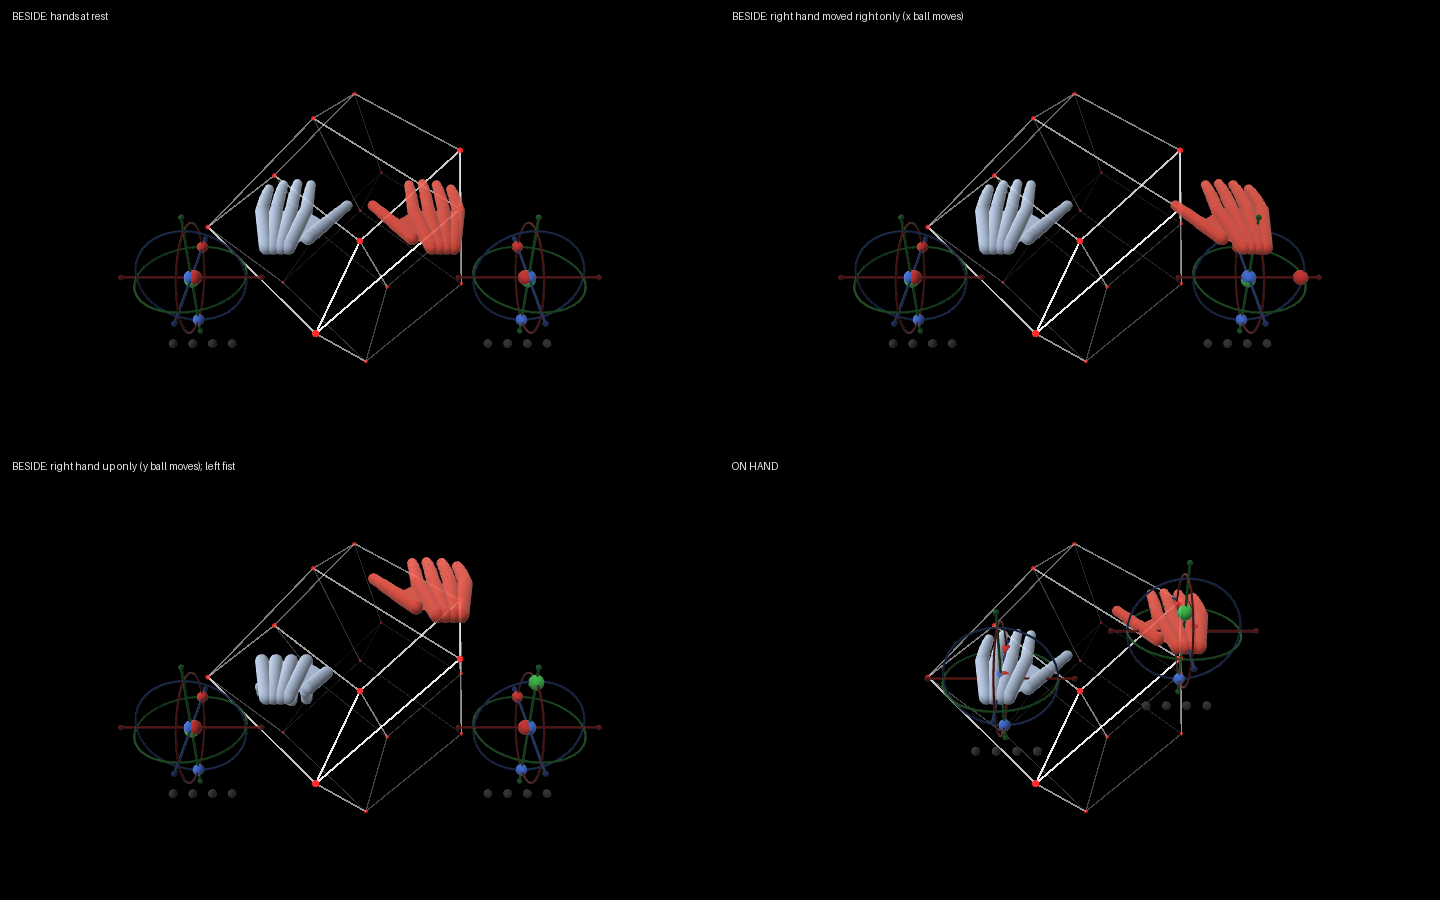
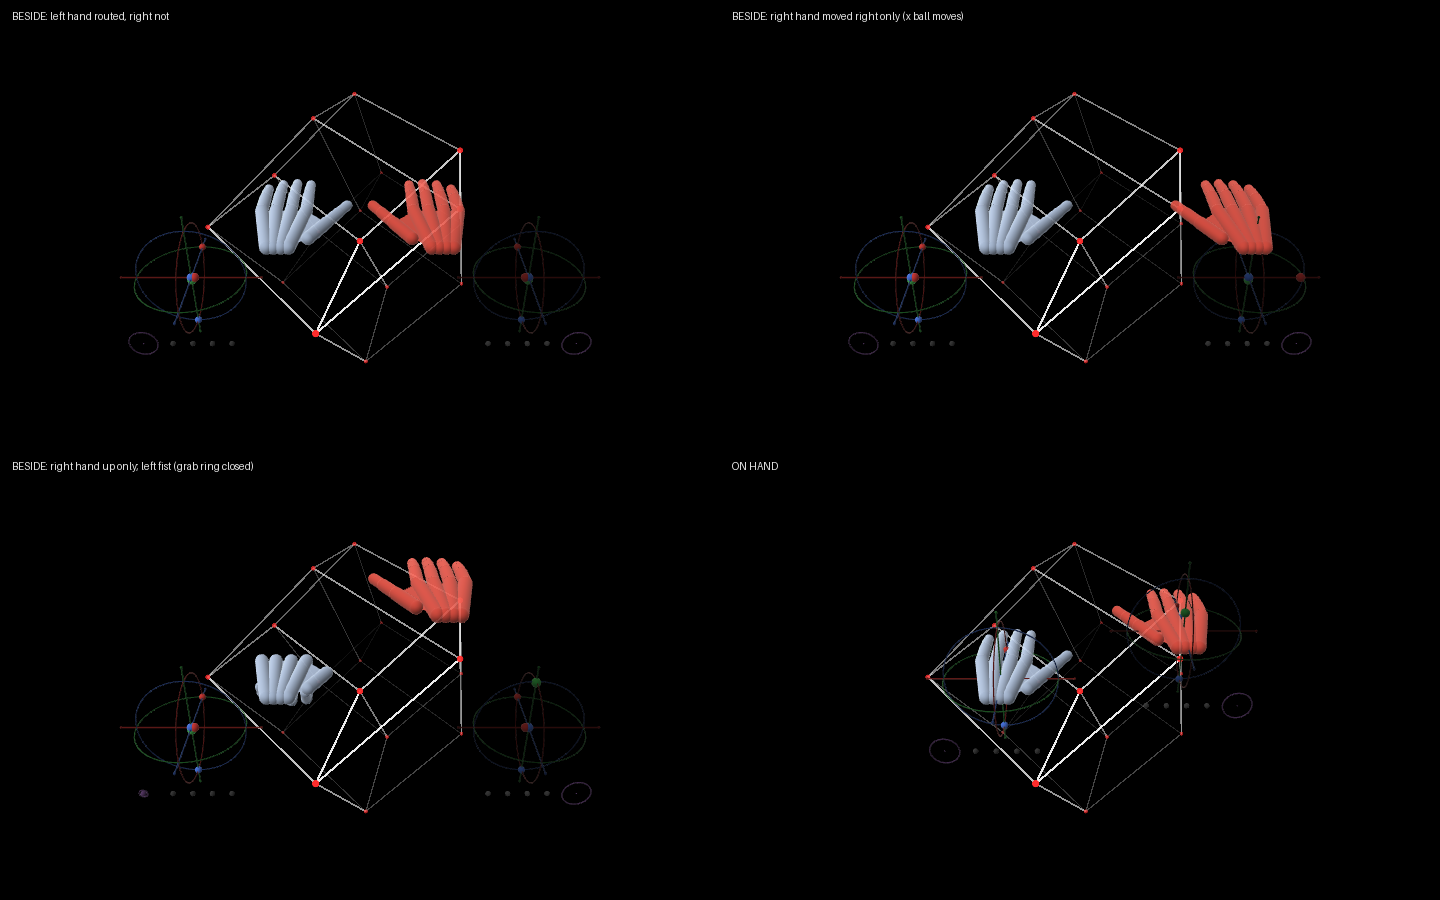
Ghost guide: light what the routing table drives; a grab ring; slimmer
"Routed" meant "the setup has this axis", which the default setup has
for all twelve, so both gauges always looked alike. The guide now asks
the routing table (renderer.ghost.router): an axis an enabled performer
row reads draws lit, line and all; the rest draw dark but still move.
A grab ring beside the pinch beads closes with the hand. Lines and balls
are thinner and smaller.

Claude-Session: https://claude.ai/code/session_01WwksnVAVpTPEWPVMvtxgpL

diff --git a/hyperspace-python/hyperspace/ghost.py b/hyperspace-python/hyperspace/ghost.py
@@ -259,31 +259,51 @@ def pose(side: str, skel: dict, m: np.ndarray, fade: float = 1.0) -> HandPose:
 AXIS_RGB = {"x": (0.95, 0.26, 0.24), "y": (0.30, 0.88, 0.36), "z": (0.32, 0.52, 1.00)}
 RING_OF = {"pitch": "x", "yaw": "y", "roll": "z"}     # the axis a rotation turns about
 PINCH_RGB = (1.0, 0.85, 0.30)
-GUIDE_LINE_R = 1.5       # mm: the axis lines and rings
-GUIDE_BALL_R = 9.0       # mm: a value's ball or dot
+GRAB_RGB = (0.85, 0.55, 1.00)
+GUIDE_LINE_R = 0.8       # mm: the axis lines and rings
+GUIDE_BALL_R = 5.5       # mm: a value's ball or dot
 GUIDE_SPAN = 0.15        # half an axis, as a fraction of the framed box's width
 RING_SEGMENTS = 40
 
 
-GUIDE_FEATURES = ("x", "y", "z", "roll", "pitch", "yaw")
-UNROUTED_DIM = 0.6       # a value the setup does not route: drawn, a little darker
+GUIDE_FEATURES = ("x", "y", "z", "roll", "pitch", "yaw", "grab")
+UNROUTED_DIM = 0.45      # an axis no routing row uses: drawn, but dark
 
 
-def guide_values(source, side: str) -> dict[str, tuple[float, float, float, bool]]:
-    """feature → (y, lo, hi, routed) for each of the hand's x y z roll
-    pitch yaw — all six, whatever the setup routes, so the guide is the
-    whole picture. A routed axis gives the shaped value the table is fed
-    (`AxisState.y`, 0–1) over its own range; any other feature its native
-    reading (`HandsIO.frame`) normalised over hands/core.py's default
-    range for that hand. A feature with no value (the hand just left, or
-    a source without frames) is absent."""
+def routed_names(router, source) -> set[str] | None:
+    """The hand lanes ("left.roll", …) an enabled performer row in the
+    routing table reads now — what the hands are actually driving. None
+    when there is no table to ask (every value then draws lit)."""
+    table = getattr(router, "table", None)
+    addresses = getattr(getattr(source, "layout", None), "addresses", None)
+    if table is None or addresses is None:
+        return None
+    out = set()
+    for b in table.mods():
+        scheme, i = router.lane(b.source)
+        if scheme == "hand" and 0 <= i < len(addresses):
+            out.add(addresses[i])
+    return out
+
+
+def guide_values(source, side: str, routed: set[str] | None = None
+                 ) -> dict[str, tuple[float, float, float, bool]]:
+    """feature → (y, lo, hi, routed) for the hand's x y z roll pitch yaw
+    and grab — all of them, whatever the setup or the table holds, so the
+    guide is the whole picture. An axis the setup has gives its shaped
+    output (`AxisState.y`, 0–1, what a row would be fed) over its own
+    range; any other feature its native reading (`HandsIO.frame`)
+    normalised over hands/core.py's default range for that hand.
+    `routed` (`routed_names`) says which a routing row uses; None: all.
+    A feature with no value (the hand just left) is absent."""
     from .hands.core import default_range  # lazily: see box_of
 
+    lit = lambda f: routed is None or f"{side}.{f}" in routed
     out = {}
     for a, st in zip(getattr(source, "axes", None) or (), getattr(source, "state", None) or ()):
         y = getattr(st, "y", None)
         if a.side == side and a.feature in GUIDE_FEATURES and y is not None:
-            out[a.feature] = (float(y), float(st.lo), float(st.hi), True)
+            out[a.feature] = (float(y), float(st.lo), float(st.hi), lit(a.feature))
     feats = (getattr(source, "frame", None) or {}).get(side) or {}
     for f in GUIDE_FEATURES:
         v = feats.get(f)
@@ -291,7 +311,7 @@ def guide_values(source, side: str) -> dict[str, tuple[float, float, float, bool
             continue
         lo, hi = default_range(side, f)
         u = (float(v) - lo) / (hi - lo) if hi != lo else 0.5
-        out[f] = (min(max(u, 0.0), 1.0), float(lo), float(hi), False)
+        out[f] = (min(max(u, 0.0), 1.0), float(lo), float(hi), lit(f))
     return out
 
 
@@ -302,8 +322,11 @@ def guide_pinches(source, side: str) -> list[bool]:
             for f in ("index", "middle", "ring", "pinky")]
 
 
-def _lit(value: tuple) -> float:
-    """A value's brightness: full when routed, UNROUTED_DIM when not."""
+def _lit(value: tuple | None) -> float:
+    """A value's brightness: full when a row routes it, UNROUTED_DIM when
+    not (or when there is no value)."""
+    if value is None:
+        return UNROUTED_DIM
     return 1.0 if len(value) < 4 or value[3] else UNROUTED_DIM
 
 
@@ -316,12 +339,15 @@ def guide(side: str, values: dict, pinches: list[bool], centre: np.ndarray, span
       x y z        a line per axis (its ends are the axis's range) and a
                    ball at the value: 0 at one end, 1 at the other, ½ in the
                    middle. Move only up and only the green ball moves.
-                   Routed values full bright, the rest UNROUTED_DIM.
+                   An axis a routing row uses is lit, line and all; the
+                   rest are drawn dark (UNROUTED_DIM).
       pitch, yaw   a ring about x / y, a dot where the fingers point: the
                    value mapped back through the axis's range, so a dead
                    zone or a curve shows as the dot sticking or speeding.
       roll         a ring about z, a dot where the palm faces.
       pinches      four beads under the gauge, lit while a switch is closed.
+      grab         a ring beside the beads that closes as the hand does: an
+                   open hand a wide ring, a fist a small one round a full ball.
     """
     c = np.asarray(centre, dtype=np.float64)
     e = {k: m @ np.eye(3)[i] for i, k in enumerate("xyz")}      # Leap axes in the stage
@@ -331,9 +357,10 @@ def guide(side: str, values: dict, pinches: list[bool], centre: np.ndarray, span
     for k in "xyz":
         rgb = AXIS_RGB[k]
         a, b = c - e[k] * span, c + e[k] * span
-        tubes.append((*a, *b, GUIDE_LINE_R, *dim(rgb, 0.45)))
-        spheres += [(*a, 2.2 * GUIDE_LINE_R, *dim(rgb, 0.45)),
-                    (*b, 2.2 * GUIDE_LINE_R, *dim(rgb, 0.45))]
+        k_lit = _lit(values.get(k))
+        tubes.append((*a, *b, GUIDE_LINE_R, *dim(rgb, 0.5 * k_lit)))
+        spheres += [(*a, 2.0 * GUIDE_LINE_R, *dim(rgb, 0.5 * k_lit)),
+                    (*b, 2.0 * GUIDE_LINE_R, *dim(rgb, 0.5 * k_lit))]
         if k in values:
             u = values[k][0] * 2.0 - 1.0
             spheres.append((*(c + e[k] * span * u), GUIDE_BALL_R, *dim(rgb, _lit(values[k]))))
@@ -351,8 +378,10 @@ def guide(side: str, values: dict, pinches: list[bool], centre: np.ndarray, span
         rgb = AXIS_RGB[RING_OF[name]]
         ring = [c + r * (math.cos(a) * n0 + math.sin(a) * n1)
                 for a in np.linspace(0.0, 2 * math.pi, RING_SEGMENTS + 1)]
-        tubes += [(*p, *q, 0.8 * GUIDE_LINE_R, *dim(rgb, 0.4)) for p, q in pairwise(ring)]
-        spheres.append((*(c + r * n0), 1.8 * GUIDE_LINE_R, *dim(rgb, 0.7)))   # neutral
+        r_lit = _lit(values[name])
+        tubes += [(*p, *q, 0.8 * GUIDE_LINE_R, *dim(rgb, 0.45 * r_lit))
+                  for p, q in pairwise(ring)]
+        spheres.append((*(c + r * n0), 2.0 * GUIDE_LINE_R, *dim(rgb, 0.7 * r_lit)))  # neutral
         y, lo, hi = values[name][:3]
         ang = math.radians(lo + y * (hi - lo))
         spheres.append((*(c + r * (math.cos(ang) * n0 + math.sin(ang) * n1)),
@@ -361,6 +390,16 @@ def guide(side: str, values: dict, pinches: list[bool], centre: np.ndarray, span
         p = c - e["y"] * span * 1.25 + out_x * span * (-0.45 + 0.3 * i)
         lit = dim(PINCH_RGB, 1.0) if closed else dim((0.5, 0.5, 0.5), 0.5)
         spheres.append((*p, 0.6 * GUIDE_BALL_R, *lit))
+    if "grab" in values:
+        g = values["grab"][0]
+        g_lit = _lit(values["grab"])
+        gc = c - e["y"] * span * 1.25 + out_x * span * 0.9
+        gr = 0.22 * span * (1.0 - 0.7 * g)                   # closes with the hand
+        ring = [gc + gr * (math.cos(a) * e["x"] + math.sin(a) * e["y"])
+                for a in np.linspace(0.0, 2 * math.pi, RING_SEGMENTS // 2 + 1)]
+        tubes += [(*p, *q, GUIDE_LINE_R, *dim(GRAB_RGB, 0.8 * g_lit))
+                  for p, q in pairwise(ring)]
+        spheres.append((*gc, (0.2 + 0.8 * g) * 0.7 * GUIDE_BALL_R, *dim(GRAB_RGB, g_lit)))
     return spheres, tubes
 
 
@@ -618,6 +657,7 @@ class Ghost:
         self.ctx = ctx
         self.state = state if state is not None else GhostState()
         self.source = None
+        self.router = None       # the routing table, for which values the guide lights
         self.sides = {"left": _Side(), "right": _Side()}
         self.geometry: CapsuleHands | None = None      # built on first use
         self._comp: moderngl.Program | None = None
@@ -672,6 +712,7 @@ class Ghost:
             lo, hi = stage_box(box, m)
             span = GUIDE_SPAN * float(hi[0] - lo[0])
             mid = (lo + hi) / 2.0
+            routed = routed_names(self.router, self.source)
             for p in poses:
                 if st.guide == 1:        # beside: a fixed gauge low on the hand's side
                     # (the hand's side of the room, through the basis: every
@@ -681,7 +722,7 @@ class Ghost:
                         - np.array([0.0, 0.2 * float(hi[1] - lo[1]), 0.0])
                 else:                    # on the hand: about the palm
                     centre = p.palm
-                p.guide = guide(p.side, guide_values(self.source, p.side),
+                p.guide = guide(p.side, guide_values(self.source, p.side, routed),
                                 guide_pinches(self.source, p.side), centre, span, m, p.fade)
         return poses, vp, eye
 

diff --git a/hyperspace-python/tests/test_ghost.py b/hyperspace-python/tests/test_ghost.py
@@ -223,36 +223,86 @@ def test_the_rings_put_the_dot_where_the_hand_points():
                  m=G.basis("desktop", mirror=True))[(0.3, 0.88, 0.36)][0][0] < 0
 
 
-def test_the_guide_shows_all_six_routed_or_not_and_the_pinches():
-    """Every axis shows whatever the setup routes: a routed one at what the
-    table is fed, the rest from the native reading over the default
-    range, a little darker."""
+def _routed_rig(tmp_path, rows):
+    """A real registry, routing table and HandsIO with `rows` (source
+    addresses) as performer rows, the hand lanes published."""
+    from test_params import make
+
+    from hyperspace.routing import Binding, Bindings, Router
+
+    reg = make(tmp_path)[0]
+    router = Router(reg, Bindings([Binding(src, "view.bright", "position") for src in rows]))
+    io = HandsIO(HandSettings.from_config({}), {}, source=NS(latest=lambda: (0, 0.0, {})),
+                 out=NS(send=print))
+    io.poll(1 / 60, router=router)                  # publishes hand:<name> → lane
+    return router, io
+
+
+def test_the_guide_lights_what_the_table_routes(tmp_path):
+    """The owner's case: rows on the left hand, none on the right — the
+    left gauge lit, the right one dark, by name or by lane index."""
+    router, io = _routed_rig(tmp_path, ["hand:left.x", "hand:left.roll",
+                                        f"hand:{io_index('left.pitch')}"])
+    assert G.routed_names(router, io) == {"left.x", "left.roll", "left.pitch"}
+    for st in io.state:
+        st.follow.y = 0.5
+    left, right = (G.guide_values(io, s, G.routed_names(router, io)) for s in ("left", "right"))
+    assert {f for f, v in left.items() if v[3]} == {"x", "roll", "pitch"}
+    assert not any(v[3] for v in right.values()) and set(right) == set(left)
+    b = router.table.bindings[0]
+    b.enabled = False                               # a disabled row drives nothing
+    assert "left.x" not in G.routed_names(router, io)
+    assert G.routed_names(None, io) is None         # no table: everything lit
+    assert all(v[3] for v in G.guide_values(io, "right", None).values())
+
+
+def io_index(name: str) -> int:
+    return HandsIO(HandSettings.from_config({}), {}, source=NS(latest=lambda: (0, 0.0, {})),
+                   out=NS(send=print)).layout.index[name]
+
+
+def test_routed_axes_draw_bright_and_the_rest_dark():
+    vals = {"x": (0.7, -20.0, 220.0, True), "y": (0.5, 100.0, 350.0, False)}
+    sph, tubes = G.guide("right", vals, [False] * 4, np.zeros(3), 100.0,
+                         G.basis("desktop"), 1.0)
+    big = [r for r in sph if r[3] >= 0.8 * G.GUIDE_BALL_R - 1e-6]
+    x_ball = next(r for r in big if r[0] > 1.0)
+    y_ball = next(r for r in big if np.allclose(r[4:7], [v * G.UNROUTED_DIM
+                                                          for v in G.AXIS_RGB["y"]]))
+    assert np.allclose(x_ball[4:7], G.AXIS_RGB["x"]) and y_ball is not None
+    x_line = next(t for t in tubes if abs(t[0]) > 1.0)       # the axis lines, dark
+    y_line = next(t for t in tubes if abs(t[1]) > 1.0)       # where nothing routes
+    assert x_line[7] > 2 * y_line[8]
+
+
+def test_the_guide_takes_every_feature_from_the_frame_and_the_pinches():
+    """No axis for a feature: its native reading over the default range."""
     io = HandsIO(HandSettings.from_config({"dofs": ["x", "pitch"]}), {},
                  source=NS(latest=lambda: (0, 0.0, {})), out=NS(send=print))
     for st in io.state:
         st.follow.y = 0.7
     io.frame["right"] = {"x": 0.0, "y": 225.0, "z": 0.0, "roll": 45.0, "pitch": 0.0,
-                         "yaw": -45.0}
+                         "yaw": -45.0, "grab": 0.25}
     vals = G.guide_values(io, "right")
     assert set(vals) == set(G.GUIDE_FEATURES)
-    assert vals["x"] == (0.7, -20.0, 220.0, True)           # routed: the shaped value
-    assert vals["pitch"][0] == 0.7 and vals["pitch"][3]
-    assert vals["y"] == (0.5, 100.0, 350.0, False)          # native over the default range
-    assert vals["roll"][0] == 0.75 and vals["yaw"][0] == 0.0 and not vals["z"][3]
-    sph, _ = G.guide("right", vals, [False] * 4, np.zeros(3), 100.0, G.basis("desktop"), 1.0)
-    big = [r for r in sph if r[3] >= 0.8 * G.GUIDE_BALL_R - 1e-6]
-    assert len(big) == 6                                     # three balls, three dots
-    x_ball = next(r for r in big if r[0] > 1.0)
-    y_ball = [r for r in big if np.allclose(r[4:7], [v * G.UNROUTED_DIM
-                                                     for v in G.AXIS_RGB["y"]])]
-    assert np.allclose(x_ball[4:7], G.AXIS_RGB["x"]) and y_ball   # bright vs dimmed
-    assert set(G.guide_values(io, "left")) == {"x", "pitch"}   # no frame: routed only
+    assert vals["x"][:3] == (0.7, -20.0, 220.0)              # the setup's axis: shaped
+    assert vals["y"][:3] == (0.5, 100.0, 350.0)              # native over the default range
+    assert vals["roll"][0] == 0.75 and vals["yaw"][0] == 0.0 and vals["grab"][0] == 0.25
     io.gates["right"]["middle"].on = True
     assert G.guide_pinches(io, "right") == [False, True, False, False]
     sph, _ = G.guide("right", {}, [False, True, False, False], np.zeros(3), 100.0,
                      G.basis("desktop"), 1.0)
-    lit = [r for r in sph if tuple(r[4:7]) == G.PINCH_RGB]
-    assert len(lit) == 1
+    assert len([r for r in sph if tuple(r[4:7]) == G.PINCH_RGB]) == 1
+
+
+def test_the_grab_ring_closes_with_the_hand():
+    def ring(g):
+        _, tubes = G.guide("right", {"grab": (g, 0.0, 1.0, True)}, [False] * 4,
+                           np.zeros(3), 100.0, G.basis("desktop"), 1.0)
+        pts = np.array([t[:3] for t in tubes if np.allclose(t[7:10],
+                                                            [v * 0.8 for v in G.GRAB_RGB])])
+        return np.ptp(pts[:, 0])
+    assert ring(0.0) > 2.5 * ring(1.0) > 0
 
 
 # ---------------------------------------------------------------- GL

diff --git a/hyperspace-python/hyperspace/app.py b/hyperspace-python/hyperspace/app.py
@@ -703,6 +703,7 @@ def main() -> None:
     panel.hands = hands_io
     # the ghost hands draw the tracker's skeletons; no tracker, nothing draws
     renderer.ghost.source = hands_io
+    renderer.ghost.router = router           # the guide lights what the table routes
     panel.hand_settings = hand_settings
     dream_io, panel.dream_error = _open_dream(reg, cfg)
     if dream_io is not None:            # fills the look-back's dream slot

diff --git a/hyperspace-python/docs/ENGINEERING.md b/hyperspace-python/docs/ENGINEERING.md
@@ -405,11 +405,16 @@ display for the performer and for newcomers, not a control source.
   rings, coloured by the axis they turn about, each carry a dot: pitch
   and yaw where the fingers point, roll where the palm faces (neutral:
   fingers forward, palm down). Four beads under the gauge light while
-  the pinch switches are closed. All six always show, routed or not
-  (`guide_values`): a routed axis at the shaped value the table is fed —
-  its dead zone and curve show as the ball sticking or speeding — and
-  the others from the native reading over the default range, a little
-  darker.
+  the pinch switches are closed, and a grab ring beside them closes as
+  the hand does (wide when open, small round a full ball in a fist).
+  Everything always shows, whatever the setup or the table holds
+  (`guide_values`): an axis the setup has at its shaped output, any other
+  feature from the native reading over the default range. What is lit
+  is what drives something: an axis an enabled performer row in the
+  routing table reads (`routed_names`, by name or lane index) draws
+  bright, line and all; the rest draw dark (`UNROUTED_DIM`), so a
+  left hand with rows and a right hand without show as one lit gauge
+  and one dark one.
 - **Leaving the box.** A hand no longer reported fades out over 0.3 s
   where it was last seen; one that comes back fades in over 0.1 s.
 - **Params.** `ghost.on` (default off), `ghost.alpha` (0.6),

diff --git a/hyperspace-python/docs/plans/11-hand-checks.md b/hyperspace-python/docs/plans/11-hand-checks.md
@@ -773,8 +773,11 @@ BESIDE: move the right hand straight right, then straight up, then
 toward the screen: each time one ball moves (red, green, blue) and the
 others stay put; tilt fingers up, turn them outward, roll thumb-up: the
 red ring's dot rises, the green ring's goes out, the blue ring's turns
-toward the palm's new facing; pinch each finger: its bead lights. ON
-HAND: the same gauge rides the palm. Repeat (c) once in `screentop` if
+toward the palm's new facing; pinch each finger: its bead lights; close
+to a fist: the grab ring shrinks round a full ball. Route a few left-hand
+axes and none on the right (ROUTING page): the left gauge's routed axes
+are lit, everything on the right is dark but still moves. ON HAND: the
+same gauge rides the palm. Repeat (c) once in `screentop` if
 the rig ever uses it: those axes are a guess (`ghost.MODES`). *Fail:*
 swapped or mirrored hands → `ghost.MODES` / `ghost.mirror`; a finger on
 the wrong digit or bending wrongly → `hands.core.skeleton` (the bones'
